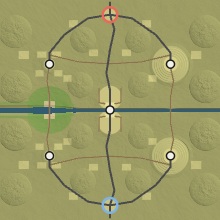
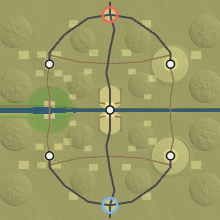
Olive Gorge O4: the pool at 300 after 104 seeded CPU matches, more groves and maquis, the README frames and the plan's measurements

diff --git a/src/game/maps/gorge.js b/src/game/maps/gorge.js
@@ -34,10 +34,11 @@ const TERRACES = [100, 88, 76, 64, 52, 40].map((r, i) => ({ x: -LANE, z: ROW, r,
 const GROVES = [   // olive groves on the plateau and round the mill: [x, z, w, d], rows 9 m apart, a tree every 8 m (south half)
   [-200, -470, 48, 40], [200, -470, 48, 40], [-90, -312, 50, 36], [90, -312, 50, 36], [-470, -300, 56, 44], [470, -300, 56, 44], [-232, -172, 44, 36], [232, -172, 44, 36],
   [292, -302, 50, 34], [372, -302, 50, 34], [282, -200, 44, 34], [384, -200, 44, 34],
+  [-120, -210, 40, 30], [120, -210, 40, 30], [-205, -72, 40, 28], [205, -72, 40, 28],   // by the lanes to the bridge, cover on the walk down
 ];
 
 export const gorge = {
-  name: 'Olive Gorge', size: 1200, clock: 20, tickets: 400, squadSlots: 8, budget: 1200,   // 20 minutes, 400 tickets, 8 squads on 1,200 points: a map where the pool decides (docs/GAME_PLAN.md, "Olive Gorge plan")
+  name: 'Olive Gorge', size: 1200, clock: 20, tickets: 300, squadSlots: 8, budget: 1200,   // 20 minutes, 300 tickets, 8 squads on 1,200 points: a map where the pool decides (docs/GAME_PLAN.md, "Olive Gorge plan"; at 400, 2 of 40 CPU matches ended by tickets and the loser stood at 0 to 80 in 15 of them)
   hour: 16.5, wind: [0.6, 0.3],   // late afternoon, long shadows down the terraces
   blurb: 'A gorge splits a hill town: one old stone bridge, a ford where the gorge opens, a footbridge at the mill. Olive terraces either side.',
   nav: { foot: 1.2, vehicle: 2, cap: 150000 },   // a million infantry cells
@@ -197,7 +198,7 @@ export const gorge = {
     const mass = (x, z) => { const [rr, h] = MASS[Math.floor(r() * MASS.length)]; props.push({ geo: `cyl:${rr},${(rr * 1.12).toFixed(2)},${h},8`, tex: 'bush', x, y: h / 2, z, rot: [0, r() * Math.PI * 2, 0], cast: true, sway: true }); };
     const bushAt = (x, z) => { const s = BUSH[Math.floor(r() * BUSH.length)]; props.push({ geo: `cyl:${(1.3 * s).toFixed(2)},${(1.5 * s).toFixed(2)},${(1.6 * s).toFixed(2)},7`, tex: 'bush', x, y: 0.8 * s, z, rot: [0, r() * Math.PI * 2, 0], cast: false, sway: true }); };
     const maquis = (x, z, w, d) => { thickets.push({ minX: x - w / 2, maxX: x + w / 2, minZ: z - d / 2, maxZ: z + d / 2, h: 2.2, thicket: true, walk: 0.55 }); for (let i = 0; i < w * d / 45; i++) mass(x + (r() - 0.5) * (w - 4), z + (r() - 0.5) * (d - 4)); for (let i = 0; i < w * d / 28; i++) bushAt(x + (r() - 0.5) * (w - 2), z + (r() - 0.5) * (d - 2)); };
-    for (let i = 0, made = 0; i < 4000 && made < 90; i++) {
+    for (let i = 0, made = 0; i < 6000 && made < 140; i++) {
       const x = -570 + r() * 1140, z = -570 + r() * 540, w = 10 + r() * 8, d = 10 + r() * 8;
       if (T.height(x, z) < 2.5 || T.slope(x, z) > 0.5 || busy(x, z) || onRoad(x, z, 12) || Math.hypot(x - M.x, z - M.z) < 110 || (Math.abs(x) < 90 && z > -140)) continue;
       if (GROVES.some(([gx, gz, gw, gd]) => Math.abs(x - gx) < gw / 2 + 12 && Math.abs(z - gz) < gd / 2 + 12) || thickets.some(t => Math.max(t.minX - (x + w / 2), (x - w / 2) - t.maxX, t.minZ - (z + d / 2), (z - d / 2) - t.maxZ) < 8)) continue;

diff --git a/docs/GAME_PLAN.md b/docs/GAME_PLAN.md
@@ -4052,7 +4052,27 @@ an olive mill's groves spread on the east, and the gorge opens into a shallow ba
   (the Monastery's top through its gates, 462), the ford from the mill 500; the foot grid is one region and the vehicle
   grid's only pockets are the two flank hilltops; line of sight on 63% of random pairs 40 to 120 m apart on the plateau
   (90 maquis thickets took it from 68%; the Hollow is 21%, this is combined arms); 14,100 props in 118 geometries, 40
-  ticks in 26 ms, no page errors. The thumbnail is from `tools/make-map-thumbs.mjs`. O4 follows.
+  ticks in 26 ms, no page errors. The thumbnail is from `tools/make-map-thumbs.mjs`.
+
+- **O4 done (2026-11-04).** *First runs at 400 tickets* (the core set at seeds 1 and 2, 16 matches; Balanced mirrors on 12
+  seeds plain and with `swap=1`, 24): 2 of 40 ended by tickets and the loser stood at 0 to 80 in 15 of them, so the pool is
+  **300** (the bleed alone is 240 over a match spent without the majority). Four more groves by the lanes to the bridge and
+  140 maquis thickets took line of sight to 59%. *At 300* (64 matches): the core set ended 9 of 16 before the clock (8 by
+  tickets at 15:12 to 19:56, one capture-all at 6:18 by Mechanized against a Balanced side that had sent its squads over the
+  flank crossings to raid while its own row stood empty), the Balanced mirrors 8 of 48 (even fights run the distance with a
+  median margin near 80; mismatches end early), which is the shape the plan asked for. Bases: south-west 25, north-east 23
+  of the 48 mirrors, and 10 to 6 in the core set: even. By team index the second team won 29 of the 48 mirrors here and 7 of
+  12 Balanced mirrors on Palm Valley run the same hour, so that lean is the engine's, not the map's (noted, not chased).
+  Presets at 300: Mechanized won 8 of 8, Armoured 3 of 4, Light 3 of 8, Air 1 of 4, Balanced 1 of 8 (at 400: 6 of 8, 3 of 4,
+  4 of 8, 0 of 4, 3 of 8). **The map is armour country**, more than Palm Valley (Mechanized 33% there): the cap took three
+  rifle squads from every preset and no vehicle, so armour to infantry runs 40% higher than on the 2 km maps; the plateau is
+  open; the ford is a gentle 26 m crossing in a bowl; a side with 7 squads cannot hold two home places and contest the
+  bridge, so raids through the flank crossings swing matches. Open item, levers in order, after the user's play test: a
+  vehicle cap beside the squad cap (`map.vehicleSlots`); maquis dense enough to push armour onto the roads, where the CPU's
+  traps and ambushes bite; a narrower or farther ford; boulders and walls on the basin's rims for the launchers. The lobby
+  shows the card second with 1.2 km and 20:00 and the saved Balanced force trimmed to three rifle squads; three frames in
+  the README table (the Old Bridge under capture, the Monastery, the ford). Not done: randomised lanes (the mode the review
+  put beside this map).
 
 ## Open questions
 

diff --git a/README.md b/README.md
@@ -38,6 +38,13 @@ pixels chunkier while the camera rotates freely. No build step.
 <td><img src="docs/screenshots/hollow-hedge.webp" alt="A squad firing from a hedgerow of bushes towards a fight round a cottage and the church, tracers crossing the lane"><br><sub><b>The Hollow.</b> A squad opens up from a hedgerow on the floor: thickets hide a squad until it fires.</sub></td>
 </tr>
 <tr>
+<td><img src="docs/screenshots/olive-gorge-bridge.webp" alt="An old stone bridge over a deep gorge between dark rock walls, a soldier crossing it, sandbags and terracotta-roofed houses on the rim, a dashed red capture ring round the bridge"><br><sub><b>Olive Gorge.</b> The Old Bridge under capture: the one vehicle crossing besides the ford, the town on both rims.</sub></td>
+<td><img src="docs/screenshots/olive-gorge-monastery.webp" alt="A walled monastery compound with a chapel, a bell tower and a cloister range on a hilltop, cypresses at its gate, dry-stone terrace walls and olive trees in rings round it, a white capture ring over the compound"><br><sub><b>Olive Gorge.</b> The Monastery on its terraces, the ring white while nobody holds it.</sub></td>
+</tr>
+<tr>
+<td colspan="2"><img src="docs/screenshots/olive-gorge-ford.webp" alt="A wide shallow river with rippling water where a dirt track runs into it from either bank, a supply truck waiting on the near bank"><br><sub><b>Olive Gorge.</b> The ford where the gorge opens into its basin: a track runs in from either bank and everyone wades.</sub></td>
+</tr>
+<tr>
 <td colspan="2"><img src="docs/screenshots/hollow-clearing.webp" alt="A ruined stone barn and a wall stub in a grassy clearing on a crest, ringed on every side by dense pine and birch woods"><br><sub><b>The Hollow.</b> West Clearing on its crest, the one open ground on that side: a ruined barn for cover, woods all round.</sub></td>
 </tr>
 <tr>
@@ -151,7 +158,7 @@ ones facing the enemy. `?map=desert1km` plays Desert Crossing, the first 1 km ma
 
 `?map=gorge` plays *Olive Gorge*, 1.2 km, mirrored about a river like Palm Valley and built to be
 the map where the ticket pool decides (plan in docs/GAME_PLAN.md, "Olive Gorge plan"): 20 minutes,
-400 tickets, eight squads on 1,200 points (a bigger saved force is trimmed to fit, rifle squads
+300 tickets, eight squads on 1,200 points (a bigger saved force is trimmed to fit, rifle squads
 first, and the CPU's pick the same). A river in a gorge cuts a Mediterranean plateau in two, and an
 old hill town stands on both rims joined by one stone bridge, the Old Bridge, the centre place; the
 gorge opens into a shallow basin to the west where a ford crosses it (everyone wades), and a timber
